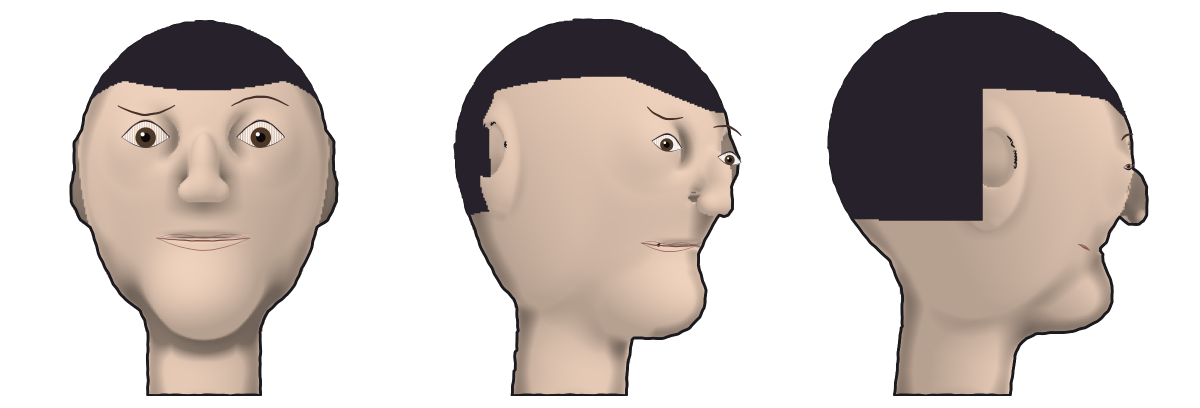
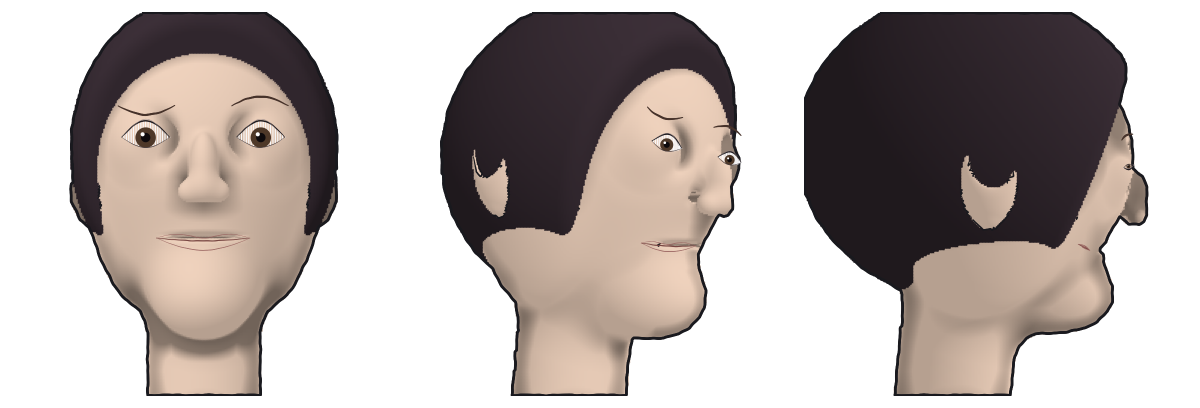
hair: 3D mass shell (drop the measles bumps), classify by hit-surface
Replace the flat carpet with a real 3D hair shell: an inflated cap over the
scalp carved by a tilted hairline plane, rendered through the G-buffer so the
hair volume foreshortens/occludes across angles. Pixels are classified hair vs
skin by which surface the ray hit (hairShell < face), painted dark vs flesh.
Dropped the uniform clump spheres - they read as measles, not hair; texture
will come from flow strokes (leads + filler) instead. Enlarged the cap so it
cleanly envelops the occiput.

Open: flow-line texture; small gap where the ear meets the hair.

diff --git a/face-lib/spike/ink-head.ts b/face-lib/spike/ink-head.ts
@@ -20,7 +20,7 @@ import { mkdirSync } from 'node:fs';
 import type { Vec3 } from '../src/math/vec3.ts';
 import { add, sub, dot, normalize, rotateYX } from '../src/math/vec3.ts';
 import { DEFAULT_HEAD, construct } from './head.ts';
-import { styledHead } from './style3d.ts';
+import { styledHead, hairShellSDF } from './style3d.ts';
 
 // proof/core.mjs is a self-contained rasterizer + hand-drawn stroke + PNG writer.
 const require = createRequire(import.meta.url);
@@ -419,7 +419,6 @@ const drawHair = (cv: any, cam: Camera, g: GBuf, ss: number) => {
 const drawFace = (cv: any, cam: Camera, g: GBuf, ss: number) => {
   const pc = (P: Vec3): P2 => { const q = projectPoint(cam, P); return { x: q.px * ss, y: q.py * ss }; };
   const es = HEAD_C.eyeSpacing;
-  drawHair(cv, cam, g, ss);
   for (const sign of [-1, 1]) {
     const ex = sign * es, ez = surfZc(es, HEAD_C.eyeY);
     const eye3D: Vec3 = [ex, HEAD_C.eyeY + es * 0.04, ez];
@@ -471,15 +470,30 @@ const renderView = (sdf: SDF, yaw: number, pitch: number) => {
   // darkened in the cavities. This is what makes it read as a FACE instead of
   // lines floating on white — and it covers the wraith core's hollows. Features
   // draw on top.
+  // Each hit pixel is HAIR or SKIN: reconstruct its world position and test the
+  // bare-head SDF — if the hit sits off the face (positive), it is on the hair
+  // shell. Hair gets a dark shaded fill, skin a flesh fill.
   const Lx = -0.3, Ly = 0.5, Lz = 0.82, Ln = Math.hypot(Lx, Ly, Lz);
-  const skin = [240, 211, 190];
+  const skin = [240, 211, 190], hairCol = [58, 46, 54];
   for (let y = 0; y < IMG; y++) for (let x = 0; x < IMG; x++) {
     const i = y * IMG + x;
     if (!g.hit[i]) continue;
     const lam = Math.max(0, (g.nx[i] * Lx + g.ny[i] * Ly + g.nz[i] * Lz) / Ln);
-    let sh = 0.76 + 0.24 * lam;                 // soft front lighting
-    sh *= 1 - Math.min(0.38, cavity[i] * 9);    // recesses a touch darker
-    cv.stamp((x + 0.5) * SS, (y + 0.5) * SS, SS * 0.72, [skin[0] * sh, skin[1] * sh, skin[2] * sh], 1);
+    const u = (2 * (x + 0.5)) / IMG - 1, vv = 1 - (2 * (y + 0.5)) / IMG;
+    const rd = normalize([
+      cam.right[0] * u * cam.tanHalf + cam.up[0] * vv * cam.tanHalf + cam.forward[0],
+      cam.right[1] * u * cam.tanHalf + cam.up[1] * vv * cam.tanHalf + cam.forward[1],
+      cam.right[2] * u * cam.tanHalf + cam.up[2] * vv * cam.tanHalf + cam.forward[2],
+    ]);
+    const wp: Vec3 = [cam.origin[0] + rd[0] * g.depth[i], cam.origin[1] + rd[1] * g.depth[i], cam.origin[2] + rd[2] * g.depth[i]];
+    if (hairShellSDF(wp) < styledHead(wp)) {      // HAIR (the hit surface is the hair shell)
+      const sh = 0.55 + 0.5 * lam;
+      cv.stamp((x + 0.5) * SS, (y + 0.5) * SS, SS * 0.72, [hairCol[0] * sh, hairCol[1] * sh, hairCol[2] * sh], 1);
+    } else {                                      // SKIN
+      let sh = 0.76 + 0.24 * lam;
+      sh *= 1 - Math.min(0.38, cavity[i] * 9);
+      cv.stamp((x + 0.5) * SS, (y + 0.5) * SS, SS * 0.72, [skin[0] * sh, skin[1] * sh, skin[2] * sh], 1);
+    }
   }
   // silhouette (heaviest) — one closed outer loop
   ink(mooreTrace(g.hit, IMG, IMG), 5.5, 100, true);
@@ -519,7 +533,7 @@ const renderForm = (sdf: SDF, yaw: number, pitch: number) => {
 const main = () => {
   const outDir = '/home/user/harmony/proof/out';
   mkdirSync(outDir, { recursive: true });
-  const sdf: SDF = (p) => styledHead(p);
+  const sdf: SDF = (p) => Math.min(styledHead(p), hairShellSDF(p));
   const views: [string, number, number][] = [
     ['front', 0, 0.16],
     ['tq', -Math.PI / 4, 0.16],

diff --git a/face-lib/spike/style3d.ts b/face-lib/spike/style3d.ts
@@ -72,6 +72,43 @@ const eyeballSDF = (p: Vec3, sign: number): number => {
   return sphere(p, [ex, ey, ez - r * 0.88], r);   // front pole ~ ez + 0.12r
 };
 
+// ---- hair as a 3D "hat" shell: an inflated cap over the scalp, its front
+// carved to a hairline, with clump lumps so the silhouette is broken (a smooth
+// offset reads as a helmet). Rendered through the same G-buffer as the head, so
+// the hair volume foreshortens/occludes correctly. Strand strokes go on top.
+const CAP_R: Vec3 = [RX * 1.16, RY * 1.20, RZ * 1.30];
+const CAP_C: Vec3 = [0, RY * 0.10, -RZ * 0.14];
+const HAIR_CLUMPS: number[][] = (() => {
+  const out: number[][] = [];
+  const N = 22;
+  for (let i = 0; i < N; i++) {
+    const u = (i + 0.5) / N;
+    const theta = Math.acos(1 - 1.55 * u);          // from the crown down
+    const phi = i * 2.399963;                        // golden-angle spread
+    const cx = CAP_C[0] + Math.sin(theta) * Math.cos(phi) * CAP_R[0] * 0.96;
+    const cy = CAP_C[1] + Math.cos(theta) * CAP_R[1] * 0.96;
+    const cz = CAP_C[2] + Math.sin(theta) * Math.sin(phi) * CAP_R[2] * 0.96;
+    if (cz > RZ * 0.28 && cy < 0.14) continue;        // skip the face region
+    out.push([cx, cy, cz, RX * (0.12 + 0.06 * ((i * 0.618) % 1))]);
+  }
+  return out;
+})();
+
+// Hairline as a tilted plane: hair lives BEHIND/ABOVE it, face in front. Normal
+// points forward-and-down; distance set so it passes through the forehead
+// hairline (~y 0.22, front of the skull).
+const NHAT: Vec3 = [0, -0.371, 0.928];
+const DHAIR = 0.36;
+export const hairShellSDF = (p: Vec3): number => {
+  // Clean hair MASS (volume + silhouette). Texture/locks come from flow strokes
+  // in the ink pass, not from all-over 3D bumps (those read as measles).
+  let hair = ellipsoid(p, CAP_C, CAP_R);
+  // carve everything in front of / below the hairline plane
+  const faceHalf = -(p[0] * NHAT[0] + p[1] * NHAT[1] + p[2] * NHAT[2] - DHAIR);
+  hair = smoothSubtract(hair, faceHalf, 0.05);
+  return hair;
+};
+
 // Core skull + the style's 3D form features.
 export const styledHead = (p: Vec3, dial: Partial<HeadDial> = {}): number => {
   let h = skull(p, dial);
